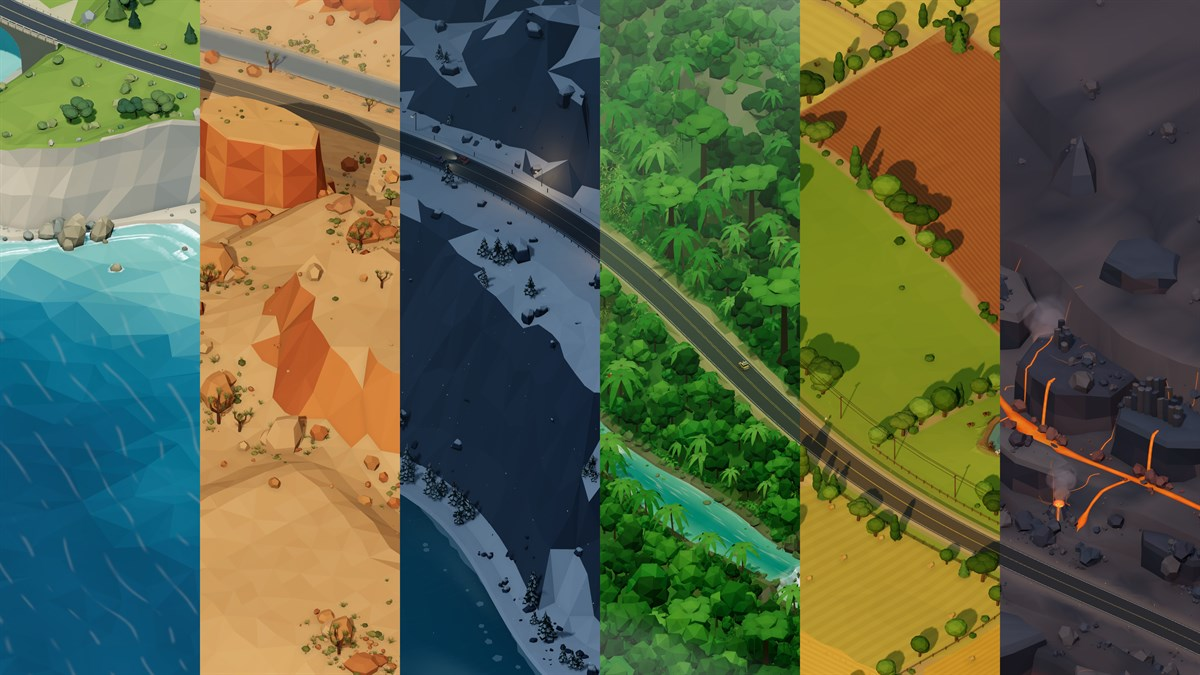
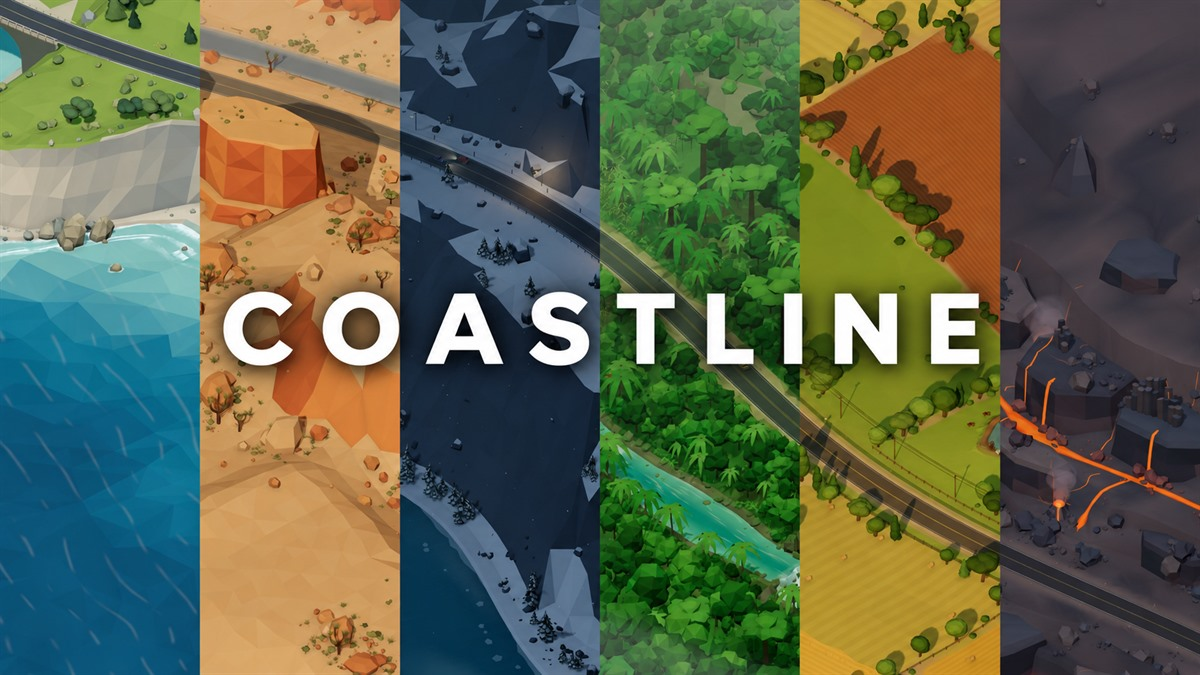
Add more screenshots and reword portfolio sections

diff --git a/3dmapcreator-details.html b/3dmapcreator-details.html
@@ -6,7 +6,7 @@
   <meta content="width=device-width, initial-scale=1.0" name="viewport">
 
   <title>3D Map Creator - Adam Jarvis</title>
-  <meta content="A Blender add-on for turning map data into 3D printable city models." name="description">
+  <meta content="A Blender add-on for turning map data into 3D printable city models, inspired by my earlier manually designed Jarvizar miniature maps." name="description">
   <link rel="canonical" href="https://ajarvis.co/3dmapcreator-details.html">
 
   <!-- Favicons -->
@@ -56,7 +56,26 @@
                 </div>
 
                 <div class="swiper-slide">
+                  <img src="assets/img/portfolio/3dmapcreator-manhattan-model.jpg" alt="Complete Lower Manhattan model rendered in Blender, with dense downtown towers, waterfront parks, and bridges across the East River" width="1600" height="1200" style="height: auto;" loading="lazy">
+                </div>
+
+                <div class="swiper-slide">
                   <img src="assets/img/portfolio/3dmapcreator-las-vegas-model.jpg" alt="Complete Las Vegas map model rendered in Blender, showing the Strip, surrounding neighborhoods, roads, and resorts" width="1600" height="1200" style="height: auto;" loading="lazy">
+                </div>
+
+                <div class="swiper-slide">
+                  <img src="assets/img/portfolio/jarvizar-boston-print.jpg" alt="Framed 3D print of my manually designed Jarvizar Boston map, with copper-colored buildings, green parks, and blue water" width="1600" height="1205" style="height: auto;" loading="lazy">
+                  <p class="small text-muted mt-2 mb-0">Hand-designed Jarvizar Boston map, created before 3D Map Creator.</p>
+                </div>
+
+                <div class="swiper-slide">
+                  <img src="assets/img/portfolio/jarvizar-singapore-print.jpg" alt="Close-up of my manually designed Jarvizar Singapore print, showing Marina Bay Sands and the waterfront skyline" width="1600" height="1205" style="height: auto;" loading="lazy">
+                  <p class="small text-muted mt-2 mb-0">Hand-designed Jarvizar Singapore map, created before 3D Map Creator.</p>
+                </div>
+
+                <div class="swiper-slide">
+                  <img src="assets/img/portfolio/jarvizar-vancouver-print.jpg" alt="Framed 3D print of my manually designed Jarvizar Vancouver map, with detailed buildings, streets, and waterfront" width="1600" height="1205" style="height: auto;" loading="lazy">
+                  <p class="small text-muted mt-2 mb-0">Hand-designed Jarvizar Vancouver map, created before 3D Map Creator.</p>
                 </div>
 
                 <div class="swiper-slide">
@@ -82,7 +101,7 @@
               </div>
               <div class="swiper-pagination"></div>
             </div>
-            <p class="small text-muted mt-3">City models, coastlines, terrain, and building details. Map data from <a href="https://overturemaps.org/" target="_blank" rel="noopener noreferrer">Overture Maps</a>.</p>
+            <p class="small text-muted mt-3">Generated model renders and photos of the earlier hand-designed Jarvizar maps that inspired this tool. Rendered models use map data from <a href="https://overturemaps.org/" target="_blank" rel="noopener noreferrer">Overture Maps</a>.</p>
           </div>
 
           <div class="col-lg-4">
@@ -98,7 +117,10 @@
             <div class="portfolio-description">
               <h2>About</h2>
               <p>
-                A Blender add-on I built to turn map data into 3D printable city models. It generates terrain, buildings, roads, bridges, and trees using Overture Maps and elevation data, with optional LiDAR building detail. Models can be exported as STL or 3MF for printing.
+                Inspired by my manually created <a href="mini-cities-details.html">Jarvizar miniature maps</a>, I began developing this Blender add-on to automate turning geographic data into 3D printable models. My original maps came first, created through a hands-on workflow of data preparation, modeling, cleanup, and print preparation.
+              </p>
+              <p>
+                3D Map Creator automates the generation of terrain, buildings, roads, bridges, trees, water, and surface details using Overture Maps and elevation data, with optional LiDAR building detail. Models can be exported as STL or 3MF for multicolor 3D printing.
               </p>
             </div>
           </div>

diff --git a/index.html b/index.html
@@ -136,7 +136,7 @@
               Earlier in my career, I built ERP and CRM integrations at Martin &amp; Associates, working directly with clients and developing services with C# .NET, REST APIs, Quartz.NET, and ProvideX.
               <br>
               <br>
-              Outside of work, I build mapping and 3D-design tools, including a Blender-based 3D Map Creator that turns geographic data into printable miniature maps and the Jarvizar miniature-map collection.
+              Outside of work, I manually design and publish miniature maps under the Jarvizar name. That hands-on work inspired me to build 3D Map Creator, a Blender add-on that automates turning geographic data into printable miniature maps.
             </p>
           </div>
         </div>
@@ -374,7 +374,7 @@
               <img src="assets/img/portfolio/mini-cities-cover.jpg" class="img-fluid" alt="3D printable miniature city models" width="1200" height="1200" decoding="async">
               <div class="portfolio-info">
                 <h4>3D Printed Miniature Cities</h4>
-                <p>3D Design / Mapping</p>
+                <p>Manual 3D Design / Mapping</p>
                 <div class="portfolio-links">
                   <a href="mini-cities-details.html" class="portfolio-details-lightbox stretched-link" data-glightbox="type: external" title="Additional Details" aria-label="View 3D Printed Miniature Cities details"><i class="bx bx-plus"></i></a>
                   <a href="https://makerworld.com/en/@jarvizar" target="_blank" title="MakerWorld Profile"><i class="bx bx-link"></i></a>
@@ -448,7 +448,7 @@
               <img src="assets/img/portfolio/3dmapcreator-cover.jpg" class="img-fluid" alt="3D Map Creator cover featuring a Cincinnati city model" width="1200" height="675">
               <div class="portfolio-info">
                 <h4>3D Map Creator</h4>
-                <p>Blender / 3D Printing</p>
+                <p>Blender / Map Automation</p>
                 <div class="portfolio-links">
                   <a href="3dmapcreator-details.html" class="portfolio-details-lightbox stretched-link" data-glightbox="type: external" title="Additional Details" aria-label="3D Map Creator details"><i class="bx bx-plus"></i></a>
                   <a href="https://github.com/jarvisar/3dmapcreator" target="_blank" rel="noopener noreferrer" title="Source Code" aria-label="3D Map Creator source code"><i class="bx bxl-github"></i></a>

diff --git a/mini-cities-details.html b/mini-cities-details.html
@@ -5,8 +5,8 @@
   <meta charset="utf-8">
   <meta content="width=device-width, initial-scale=1.0" name="viewport">
 
-  <title>Portfolio Details - Personal Bootstrap Template</title>
-  <meta content="" name="description">
+  <title>Jarvizar Miniature Maps - Adam Jarvis</title>
+  <meta content="Manually designed 3D printable miniature maps published under the Jarvizar name, which inspired the later 3D Map Creator automation tool." name="description">
   <meta content="" name="keywords">
 
   <!-- Favicons -->
@@ -125,10 +125,13 @@
             <div class="portfolio-description">
               <h2>About</h2>
               <p>
-                Designed with Blender using the <a href="https://github.com/vvoovv/blosm" target="_blank">Blosm add-on</a>. I first import the terrain, roads/paths, buildings, vegetation, and water, then manually re-add any missing features and fix any inaccuracies. From there I convert the mesh to a 3D printable format, ensuring minimal non-manifold geometry and a low poly count.
-                <br>
-                <br>
-                Visit the above links to download!
+                I manually design and publish detailed miniature maps under the Jarvizar name. Each model follows a hands-on workflow using QGIS, Blender, SolidWorks, and Inkscape, from geographic data preparation and modeling to cleanup and print preparation. I add missing features, correct inaccuracies, and refine the geometry for 3D printing.
+              </p>
+              <p>
+                Creating these maps by hand inspired me to later build <a href="3dmapcreator-details.html">3D Map Creator</a>, a Blender add-on that automates much of that process. The Jarvizar miniature-map collection came first.
+              </p>
+              <p>
+                Download the models from my Printables and MakerWorld profiles above.
               </p>
             </div>
           </div>

diff --git a/docs/coastline-cover.md b/docs/coastline-cover.md
@@ -1,0 +1,12 @@
+# Coastline slices cover
+
+The cover in `assets/img/portfolio/coastline-cover.jpg` uses the scene-slices background and restores the centered white COASTLINE title from the previous mosaic cover. Created with the built-in imagegen tool and exported as a 1200 × 675 JPEG.
+
+Inputs:
+
+- Edit target: `C:/Users/adamj/source/repos/coastline/showcase/scene-slices.png`.
+- Typography reference: `assets/img/portfolio/coastline-cover.jpg` from commit `bfec4d7`.
+
+Final prompt:
+
+> Use case: precise-object-edit. Create the final 16:9 Coastline portfolio cover. Image 1 is the edit target: the six VERTICAL scene slices. Image 2 is a TYPOGRAPHY reference ONLY: the old mosaic cover. Keep the entire background of image 1 unchanged: all six equal vertical panels, exact crops, roads, trees, cliffs, colors and lighting. Add only the title treatment from image 2 on top of image 1: exact text 'COASTLINE', one line of large bold white uppercase sans-serif letters, widely spaced, centered horizontally and vertically, spanning approximately 64% of the image width with letter height approximately 12% of image height. Match image 2's font weight, tracking, placement and soft dark text shadow for contrast. Text is spelled C O A S T L I N E. No subtitle. Do not use the mosaic layout of image 2. Do not redraw or alter scenery. No border, no logo, no extra text. Output a 16:9 image with all six original vertical scene slices and the centered white COASTLINE title.
